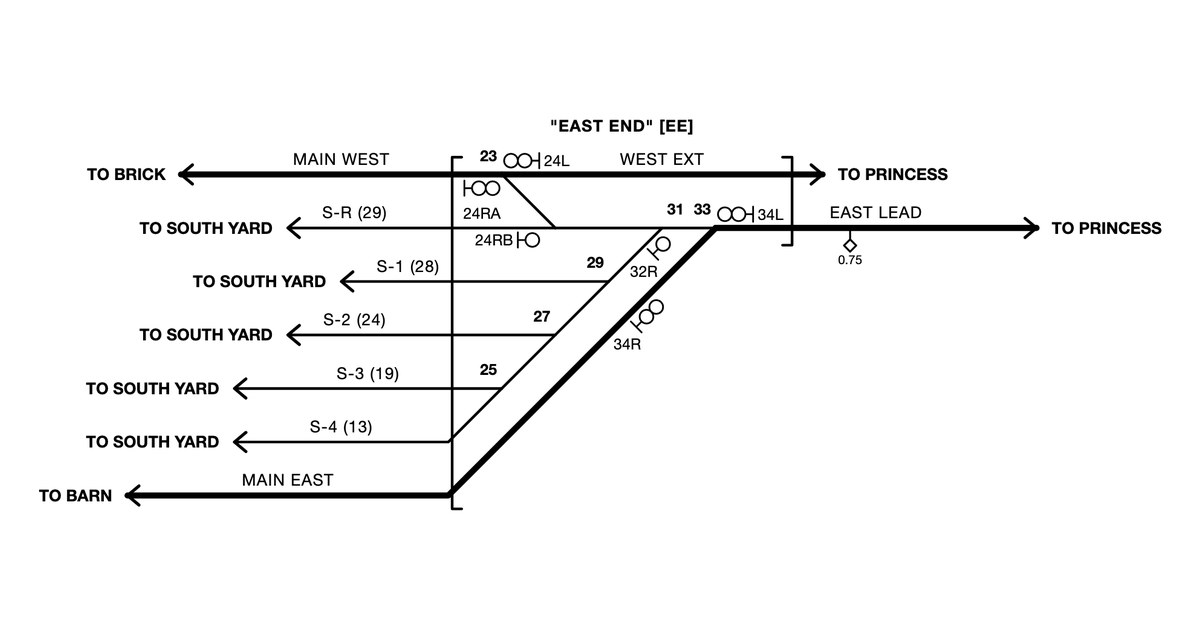
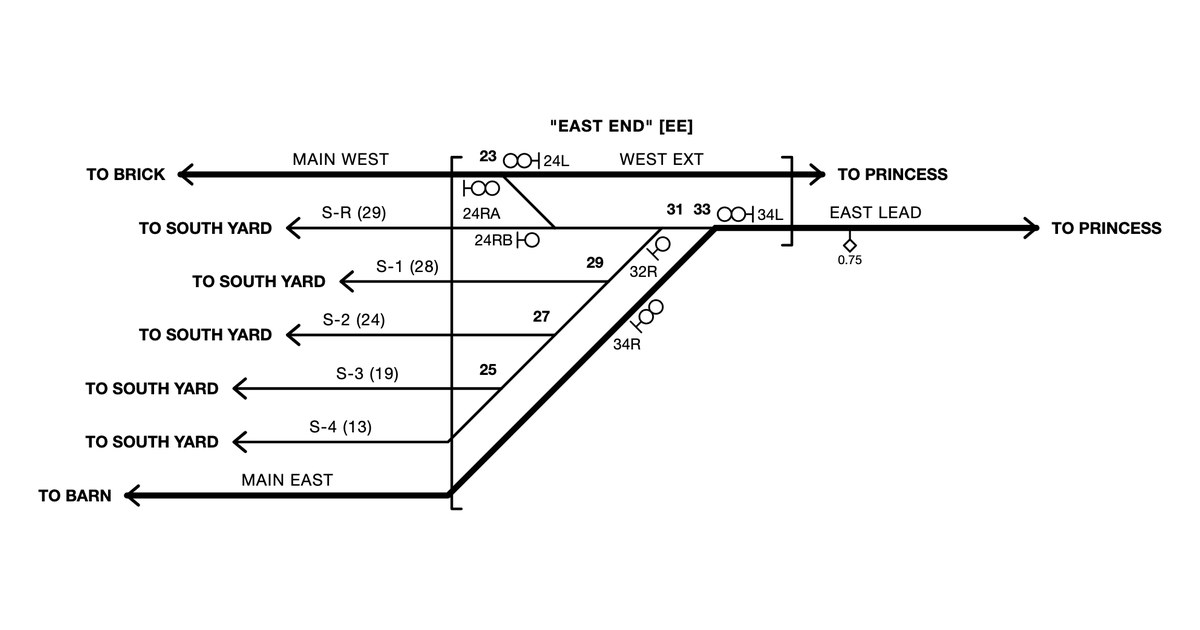
Stop the station map card build when the sheet has moved under its hand-set crop, and make the alt text match the card and say it is shared by all the map pages.
Claude-Session: https://claude.ai/code/session_0162gHsPfv3nVX16kZXPYHKL

diff --git a/www/scripts/make_share_cards.py b/www/scripts/make_share_cards.py
@@ -545,23 +545,38 @@ def station_maps():
     return out
 
 
+def _crop_drawing(im, window, src, pad=24, edge=8):
+    """The drawing inside WINDOW (left, top, right, bottom) of IM, trimmed to its ink plus PAD.
+
+    The window is set by hand against a generated sheet, so it stops (SystemExit) when the sheet has moved:
+    ink within EDGE pixels of the window's top or bottom means a heading or bracket has leaked in or the
+    drawing is cut off. Nothing is published from a crop that fails."""
+    from PIL import Image, ImageChops
+
+    inner = im.crop(window)
+    ink = ImageChops.difference(inner, Image.new("RGB", inner.size, "white")).convert("L").point(
+        lambda v: 255 if v > 40 else 0)
+    box = ink.getbbox()
+    if box is None:
+        raise SystemExit(f"{src}: rendered blank")
+    if box[1] < edge or box[3] > inner.height - edge:
+        raise SystemExit(f"{src}: drawing touches the crop window's top or bottom edge; the sheet has moved, "
+                         f"re-measure the window")
+    return inner.crop((max(box[0] - pad, 0), max(box[1] - pad, 0), min(box[2] + pad, inner.width),
+                       min(box[3] + pad, inner.height)))      # clamped: PIL pads past the edge with black
+
+
 def station_map_east_end():
     """crew-maps-east-end: the track drawing of the generated East End station sheet
     (docs/ops/stations/east-end.svg), on white (used by the station maps index and the live map pages; the
     archive keeps crew-maps)."""
-    from PIL import Image, ImageChops
+    from PIL import Image
 
     src = REPO / "docs/ops/stations/east-end.svg"
     im = shot(src.as_uri(), (1056, 816))            # the sheet's own size (its viewBox), at 2x
     # The track drawing only: below the STAGING LEVEL heading, above the EAST END bracket and the title block,
     # inside the border (sheet units 1056 x 816, rendered at 2x).
-    inner = im.crop((60, 2 * 215, im.width - 60, 2 * 580))
-    box = ImageChops.difference(inner, Image.new("RGB", inner.size, "white")).getbbox()
-    if box is None:
-        raise SystemExit(f"{src}: rendered blank")
-    pad = 24
-    im = inner.crop((max(box[0] - pad, 0), max(box[1] - pad, 0), min(box[2] + pad, inner.width),
-                     min(box[3] + pad, inner.height)))      # clamped: PIL pads past the edge with black
+    im = _crop_drawing(im, (60, 2 * 215, im.width - 60, 2 * 580), src)
     scale = min((W - 48) / im.width, (H - 48) / im.height)
     im = im.resize((round(im.width * scale), round(im.height * scale)), Image.LANCZOS)
     out = Image.new("RGB", (W, H), "white")

diff --git a/www/scripts/tests/test_make_share_cards.py b/www/scripts/tests/test_make_share_cards.py
@@ -25,6 +25,29 @@ class Recipes(unittest.TestCase):
 
 
 class Drawing(unittest.TestCase):
+    def _sheet(self, *rows):
+        from PIL import Image, ImageDraw
+        im = Image.new("RGB", (400, 300), "white")
+        for y in rows:
+            ImageDraw.Draw(im).rectangle((100, y, 300, y + 3), fill="black")
+        return im
+
+    def test_station_crop_keeps_a_drawing_clear_of_the_window(self):
+        out = gen._crop_drawing(self._sheet(120, 160), (0, 50, 400, 250), "sheet", pad=10)
+        self.assertEqual(out.size, (221, 64))
+
+    def test_station_crop_stops_when_a_heading_reaches_the_window_top(self):
+        with self.assertRaises(SystemExit):
+            gen._crop_drawing(self._sheet(52, 120), (0, 50, 400, 250), "sheet")
+
+    def test_station_crop_stops_when_the_drawing_runs_past_the_window_bottom(self):
+        with self.assertRaises(SystemExit):
+            gen._crop_drawing(self._sheet(120, 248), (0, 50, 400, 250), "sheet")
+
+    def test_station_crop_stops_on_a_blank_window(self):
+        with self.assertRaises(SystemExit):
+            gen._crop_drawing(self._sheet(), (0, 50, 400, 250), "sheet")
+
     def test_route_map_names_every_station_in_the_plan(self):
         svg = gen._jfn_svg()
         for name in ("West Staging", "Carrow", "Brae", "Dunmere", "Ferris Junction", "Linden", "East Staging",
